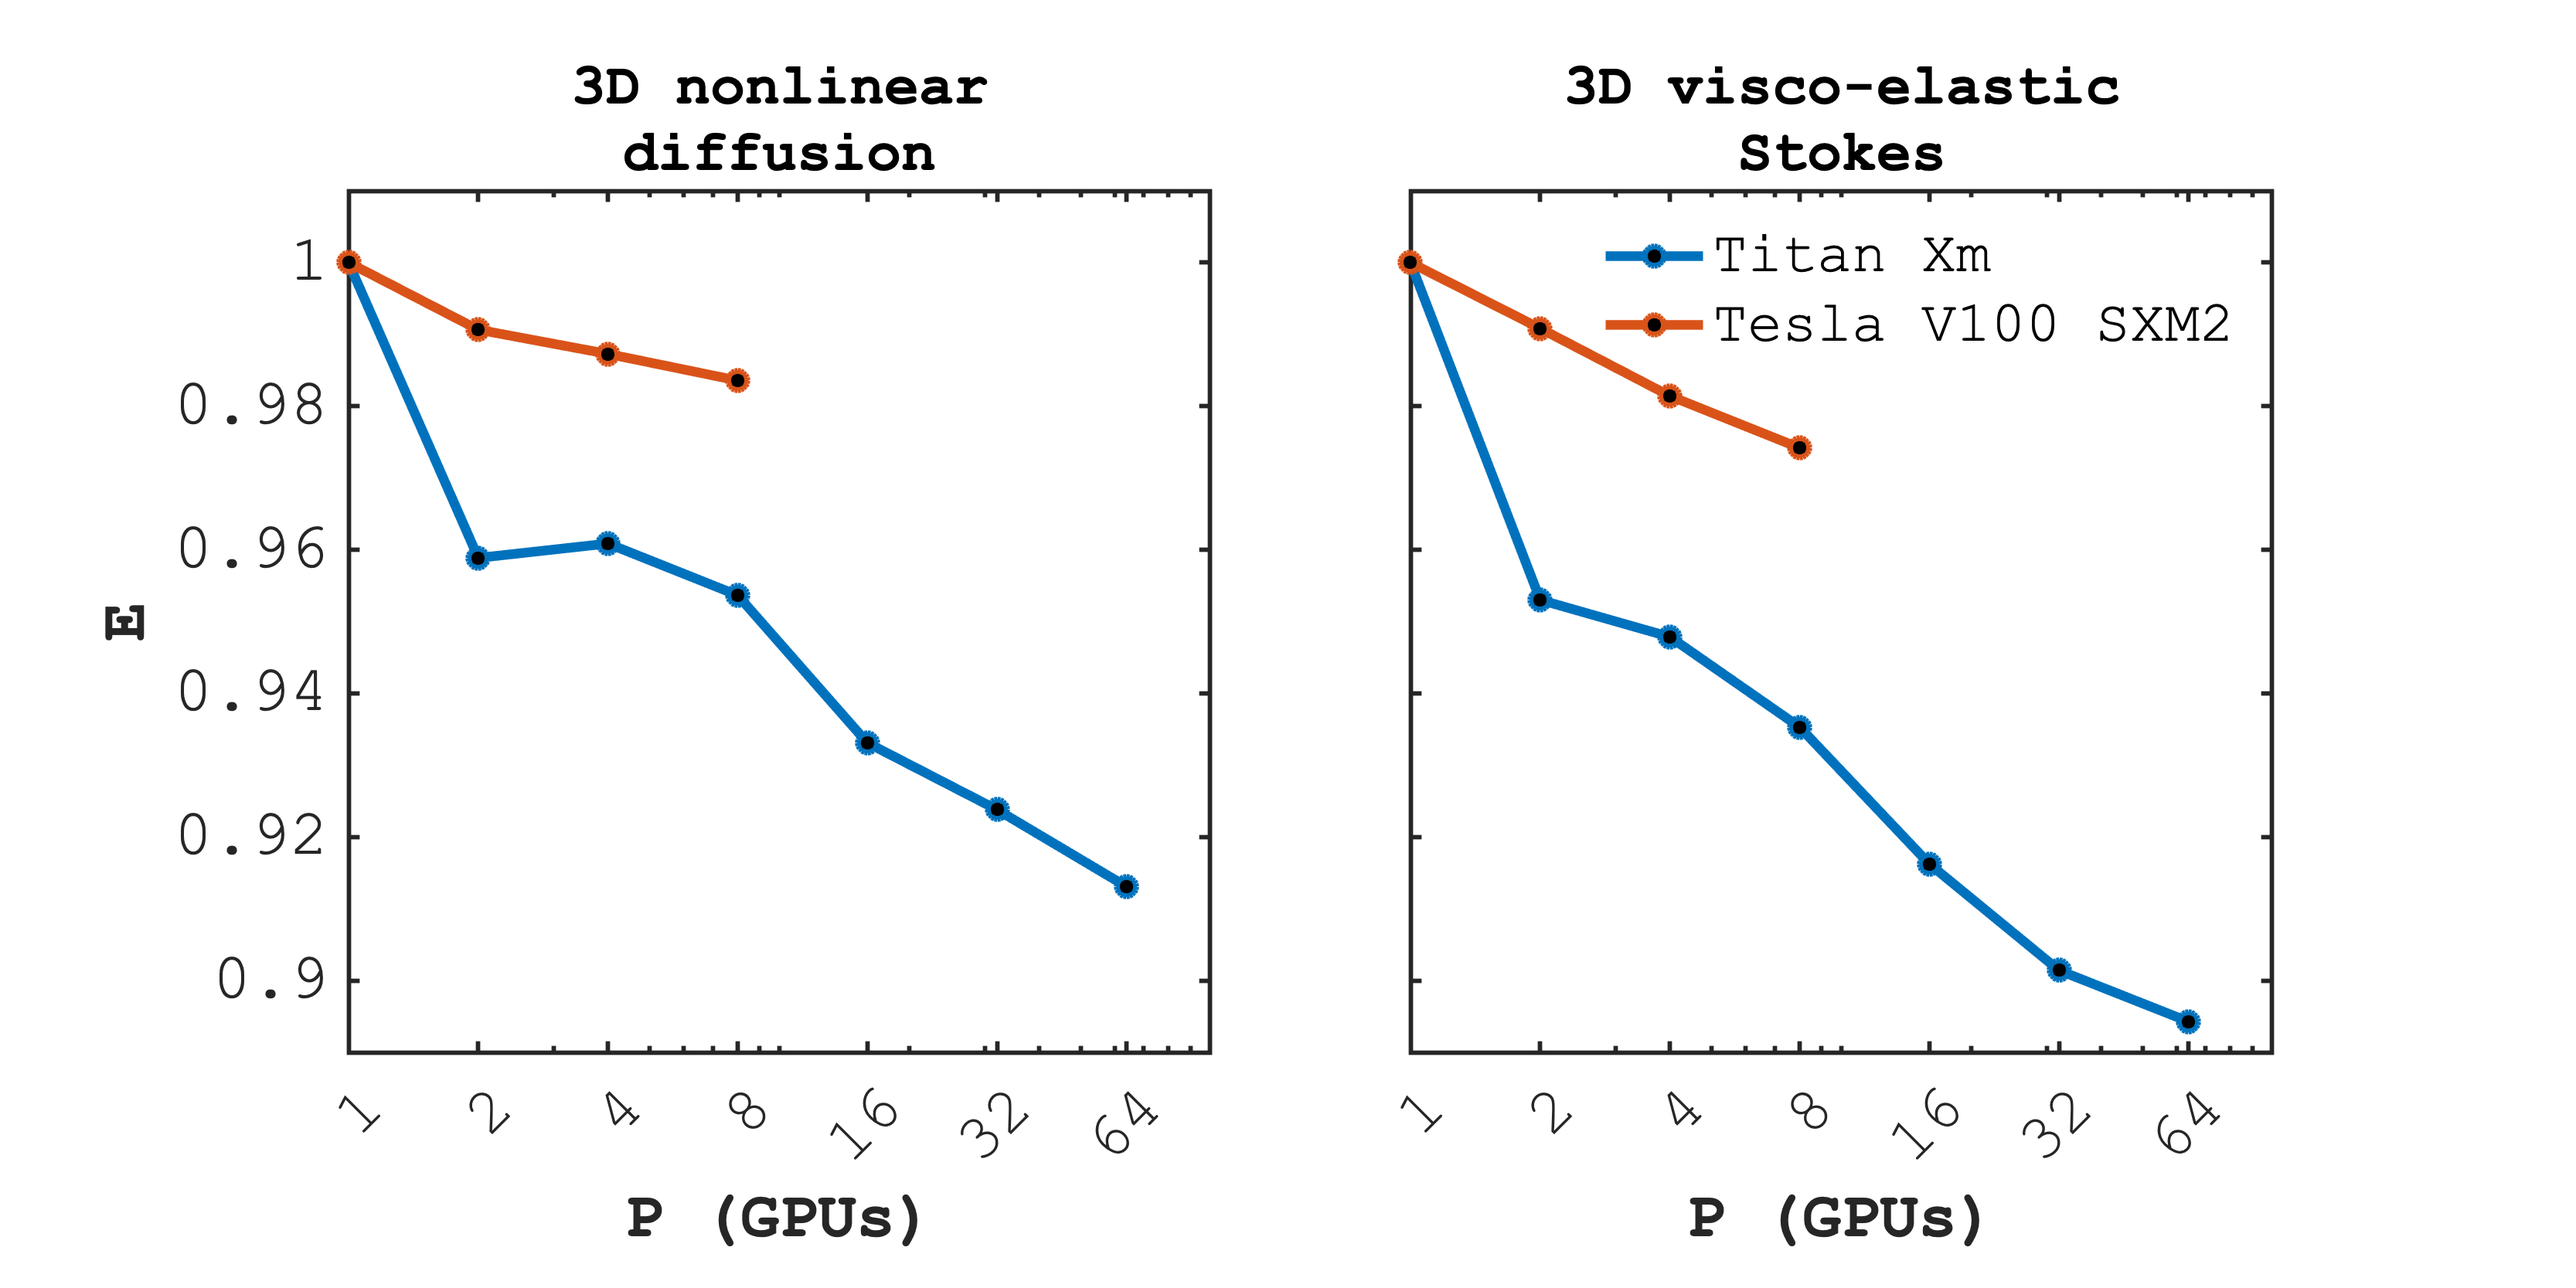
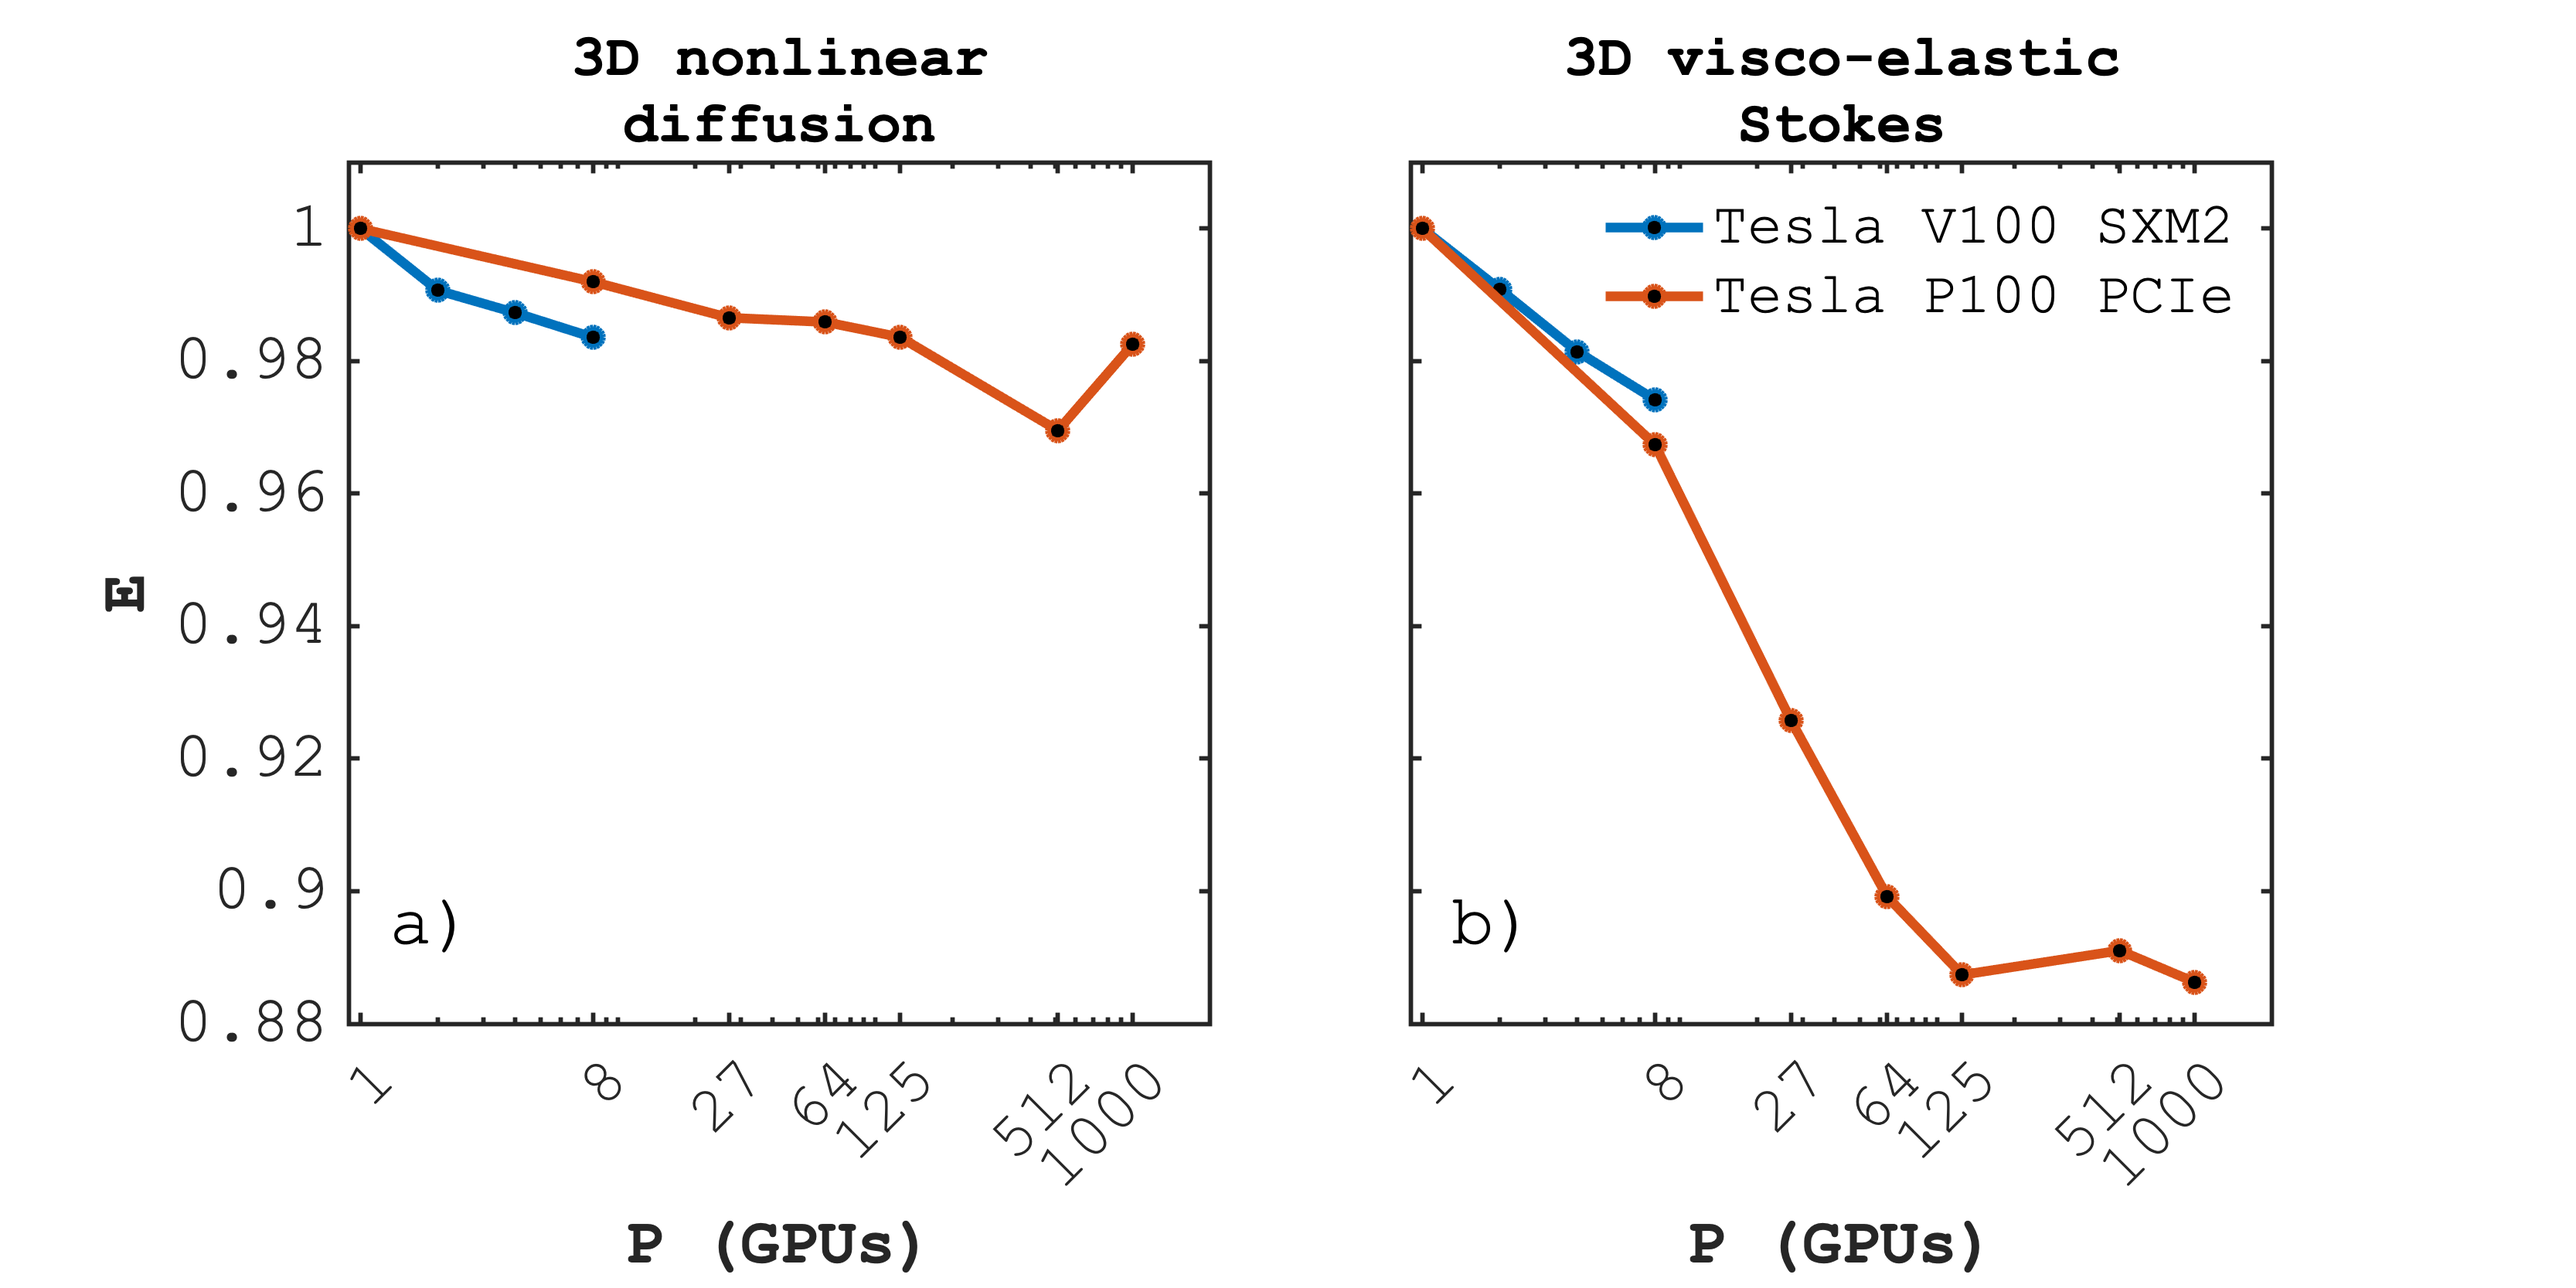
Add latest scaling.

diff --git a/visu/viz_perf.m b/visu/viz_perf.m
@@ -9,14 +9,18 @@ fid = fopen('../output/out_diff_3D_nonlin_perf_volta.txt','r'); diff_3D_volta = 
 fid = fopen('../output/out_diff_3D_nonlin_perf_daint.txt','r'); diff_3D_daint = fscanf(fid, '%d %d %d %d %d %f %f %f %f', [9 Inf]); fclose(fid); % np nx ny nz ittot t_toc A_eff t_it T_eff
 fid = fopen('../../PseudoTransientStokes/output/out_Stokes3D_ve_perf_octo.txt' ,'r'); stokes_3D_octo  = fscanf(fid, '%d %d %d %d %d %f %f %f %f', [9 Inf]); fclose(fid); % np nx ny nz ittot t_toc A_eff t_it T_eff
 fid = fopen('../../PseudoTransientStokes/output/out_Stokes3D_ve_perf_volta.txt','r'); stokes_3D_volta = fscanf(fid, '%d %d %d %d %d %f %f %f %f', [9 Inf]); fclose(fid); % np nx ny nz ittot t_toc A_eff t_it T_eff
+fid = fopen('../../PseudoTransientStokes/output/out_Stokes3D_ve_perf_daint.txt','r'); stokes_3D_daint = fscanf(fid, '%d %d %d %d %d %f %f %f %f', [9 Inf]); fclose(fid); % np nx ny nz ittot t_toc A_eff t_it T_eff
 
 fid = fopen('../output/out_diff_3D_nonlin_multixpu_perf_octo.txt' ,'r'); diff_3D_mxpu_octo  = fscanf(fid, '%d %d %d %d %d %f %f %f %f', [9 Inf]); fclose(fid); % np nx ny nz ittot t_toc A_eff t_it T_eff
 fid = fopen('../output/out_diff_3D_nonlin_multixpu_perf_volta.txt','r'); diff_3D_mxpu_volta = fscanf(fid, '%d %d %d %d %d %f %f %f %f', [9 Inf]); fclose(fid); % np nx ny nz ittot t_toc A_eff t_it T_eff
+fid = fopen('../output/out_diff_3D_nonlin_multixpu_perf_daint.txt','r'); diff_3D_mxpu_daint = fscanf(fid, '%d %d %d %d %d %f %f %f %f', [9 Inf]); fclose(fid); % np nx ny nz ittot t_toc A_eff t_it T_eff
 fid = fopen('../../PseudoTransientStokes/output/out_Stokes3D_ve_xpu_perf_octo.txt' ,'r'); stokes_3D_mxpu_octo  = fscanf(fid, '%d %d %d %d %d %f %f %f %f', [9 Inf]); fclose(fid); % np nx ny nz ittot t_toc A_eff t_it T_eff
 fid = fopen('../../PseudoTransientStokes/output/out_Stokes3D_ve_xpu_perf_volta.txt','r'); stokes_3D_mxpu_volta = fscanf(fid, '%d %d %d %d %d %f %f %f %f', [9 Inf]); fclose(fid); % np nx ny nz ittot t_toc A_eff t_it T_eff
+fid = fopen('../../PseudoTransientStokes/output/out_Stokes3D_ve_xpu_perf_daint.txt','r'); stokes_3D_mxpu_daint = fscanf(fid, '%d %d %d %d %d %f %f %f %f', [9 Inf]); fclose(fid); % np nx ny nz ittot t_toc A_eff t_it T_eff
 
 nrep  = 5; % number of repetitions of the experiment
 nrep2 = 2; % number of repetitions of the experiment
+nrep1 = 1; % number of repetitions of the experiment
 my_type = "my_max";
 % my_type = "my_mean";
 
@@ -28,11 +32,14 @@ diff_3D_volta_2 = average_exp(diff_3D_volta, nrep, my_type);
 diff_3D_daint_2 = average_exp(diff_3D_daint, nrep2, my_type);
 diff_3D_mxpu_octo_2  = average_exp(diff_3D_mxpu_octo, nrep, my_type);
 diff_3D_mxpu_volta_2 = average_exp(diff_3D_mxpu_volta, nrep, my_type);
+diff_3D_mxpu_daint_2 = average_exp(diff_3D_mxpu_daint, nrep1, my_type);
 
 stokes_3D_octo_2  = average_exp(stokes_3D_octo, nrep, my_type);
 stokes_3D_volta_2 = average_exp(stokes_3D_volta, nrep, my_type);
+stokes_3D_daint_2 = average_exp(stokes_3D_daint, nrep1, my_type);
 stokes_3D_mxpu_octo_2  = average_exp(stokes_3D_mxpu_octo, nrep, my_type);
 stokes_3D_mxpu_volta_2 = average_exp(stokes_3D_mxpu_volta, nrep, my_type);
+stokes_3D_mxpu_daint_2 = average_exp(stokes_3D_mxpu_daint, nrep1, my_type);
 
 T_peak_volta = 840;
 T_peak_octo  = 254;
@@ -42,11 +49,12 @@ FS = 20;
 mylim = [0 870];
 ylab = 790;
 
-mylim2 = [0.89 1.01];
-ylab2 = 0.9;
+mylim2 = [0.88 1.01];
+mylimx = [0.9 2e3];
+ylab2 = 0.895;
 
 fig1 = 1;
-fig2 = 0;
+fig2 = 1;
 
 %%
 if fig1==1
@@ -94,37 +102,42 @@ fig.PaperPositionMode = 'auto';
 end
 %%
 if fig2==1
+
 figure(2),clf,set(gcf,'color','white','pos',[1400 10 800 400])
 sp1 = subplot(121);
-semilogx(diff_3D_mxpu_octo_2(1,:),diff_3D_mxpu_octo_2(end,:)./diff_3D_mxpu_octo_2(end,1), '-o', ...
-     diff_3D_mxpu_volta_2(1,:),diff_3D_mxpu_volta_2(end,:)./diff_3D_mxpu_volta_2(end,1), '-o', ...
-     'linewidth',3, 'MarkerFaceColor','k'), axis square, set(gca, 'fontsize',FS, 'linewidth',1.4)
+% diff_3D_mxpu_octo_2(1,:),diff_3D_mxpu_octo_2(end,:)./diff_3D_mxpu_octo_2(end,1), '-o', ...
+semilogx(diff_3D_mxpu_volta_2(1,:),diff_3D_mxpu_volta_2(end,:)./diff_3D_mxpu_volta_2(end,1), '-o', ...
+         diff_3D_mxpu_daint_2(1,:),diff_3D_mxpu_daint_2(end,:)./diff_3D_mxpu_daint_2(end,1), '-o', ...
+        'linewidth',3, 'MarkerFaceColor','k'), axis square, set(gca, 'fontsize',FS, 'linewidth',1.4)
 title({'3D nonlinear'; 'diffusion'},'fontsize',FS-2)
 ylabel({' ';'\bf{E}'}, 'fontsize',FS)
 % lg=legend('Titan Xm', 'Tesla V100 SXM2'); set(lg,'box','off')
 ylim(mylim2)
-set(gca, 'XTick',diff_3D_mxpu_octo_2(1,:))
+xlim(mylimx)
+set(gca, 'XTick',diff_3D_mxpu_daint_2(1,:))
 xtickangle(45)
 set(gca,'fontname','Courier')
 xlabel('\bf{P (GPUs)}', 'fontsize',FS)
 text(1.3,ylab2,'a)','fontsize',FS+2,'fontname','Courier')
 
 sp2 = subplot(122);
-semilogx(stokes_3D_mxpu_octo_2(1,:),stokes_3D_mxpu_octo_2(end,:)./stokes_3D_mxpu_octo_2(end,1), '-o', ...
-     stokes_3D_mxpu_volta_2(1,:),stokes_3D_mxpu_volta_2(end,:)./stokes_3D_mxpu_volta_2(end,1), '-o', ...
+% stokes_3D_mxpu_octo_2(1,:),stokes_3D_mxpu_octo_2(end,:)./stokes_3D_mxpu_octo_2(end,1), '-o', ...
+semilogx(stokes_3D_mxpu_volta_2(1,:),stokes_3D_mxpu_volta_2(end,:)./stokes_3D_mxpu_volta_2(end,1), '-o', ...
+         stokes_3D_mxpu_daint_2(1,:),stokes_3D_mxpu_daint_2(end,:)./stokes_3D_mxpu_daint_2(end,1), '-o', ...
      'linewidth',3, 'MarkerFaceColor','k'), axis square, set(gca, 'fontsize',FS, 'linewidth',1.4)
 title({'3D visco-elastic'; 'Stokes'},'fontsize',FS-2)
 % ylabel({' ';'\bf{E}'}, 'fontsize',FS)
-lg=legend('Titan Xm', 'Tesla V100 SXM2'); set(lg,'box','off')
+lg=legend('Tesla V100 SXM2', 'Tesla P100 PCIe'); set(lg,'box','off')
 ylim(mylim2)
-set(gca, 'XTick',stokes_3D_mxpu_octo_2(1,:), 'YTicklabel',[])
+xlim(mylimx)
+set(gca, 'XTick',stokes_3D_mxpu_daint_2(1,:), 'YTicklabel',[])
 xtickangle(45)
 set(gca,'fontname','Courier')
 xlabel('\bf{P (GPUs)}', 'fontsize',FS)
 text(1.3,ylab2,'b)','fontsize',FS+2,'fontname','Courier')
 
-pos1 = get(sp1,'position'); set(sp1,'position',[pos1(1)*1.04  pos1(2)*1. pos1(3)*1 pos1(4)*1])
-pos2 = get(sp2,'position'); set(sp2,'position',[pos2(1)*0.96  pos2(2)*1. pos2(3)*1 pos2(4)*1])
+pos1 = get(sp1,'position'); set(sp1,'position',[pos1(1)*1.04  pos1(2)*1.2 pos1(3)*1 pos1(4)*1])
+pos2 = get(sp2,'position'); set(sp2,'position',[pos2(1)*0.96  pos2(2)*1.2 pos2(3)*1 pos2(4)*1])
 
 fig = gcf;
 fig.PaperPositionMode = 'auto';
